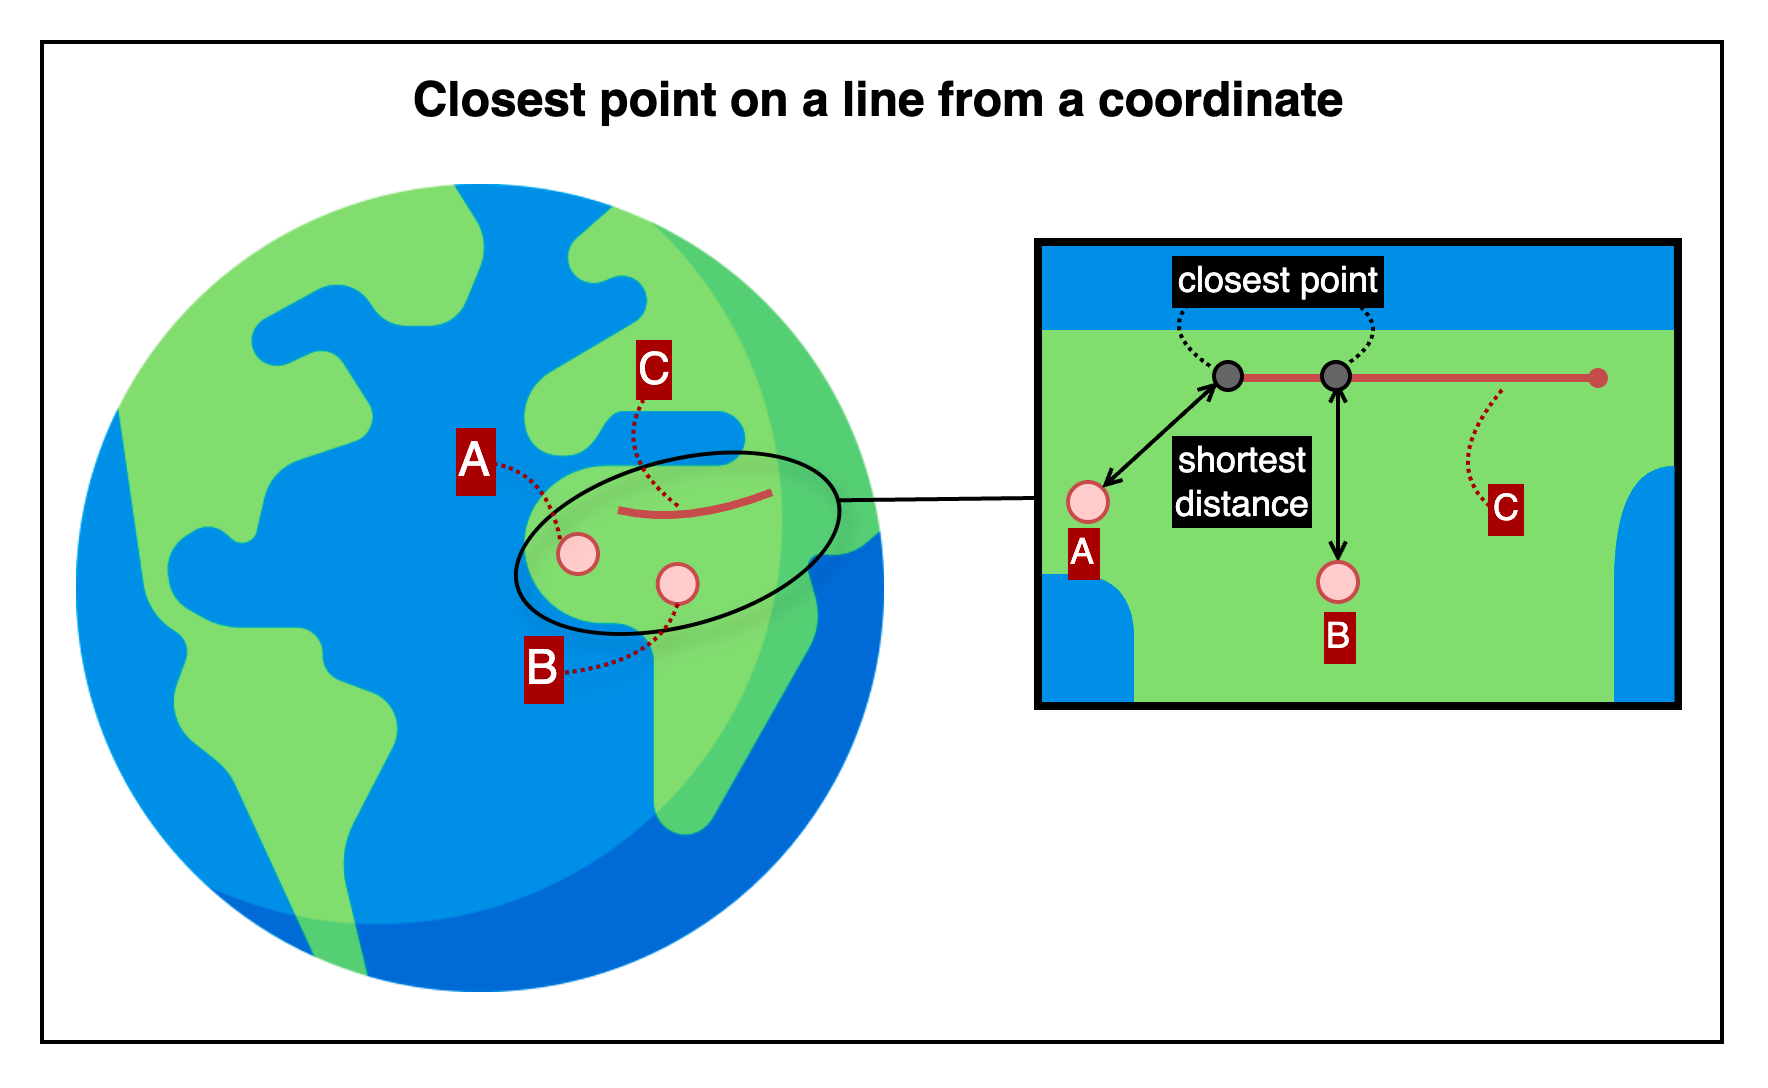
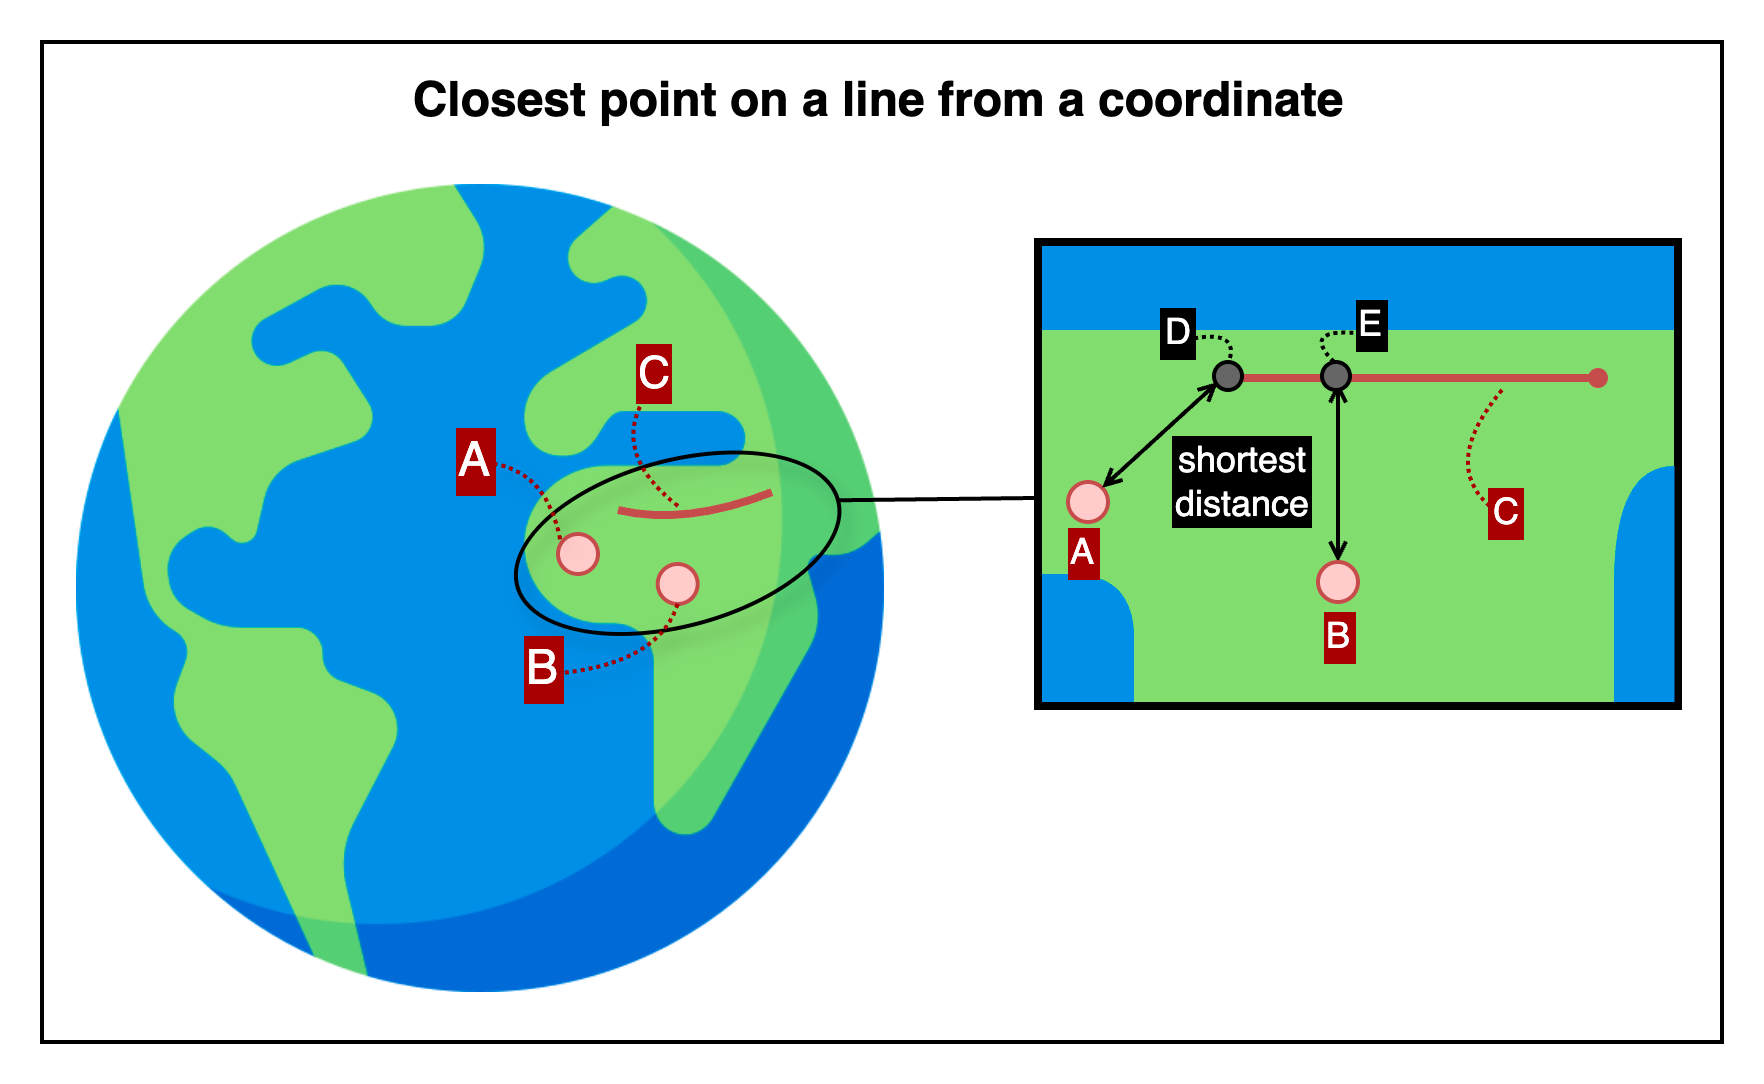
[docs] geo-calculation-toolkit-api 최신화

diff --git a/profile/projects/geo-calculation-toolkit-api/detail/closest-point-on-a-line-from-a-coordinate.md b/profile/projects/geo-calculation-toolkit-api/detail/closest-point-on-a-line-from-a-coordinate.md
@@ -1,0 +1,186 @@
+## Total boundary length of the circular area
+
+This is an HTTP API that returns the closest point on a line segment defined by two geographic coordinates, given a specific input coordinate.
+
+---
+
+## 📚 Table of Contents
+
+1. [🧭 Overview](#-1-overview) — *For first-time users*
+2. [📤 Request Details](#-2-request-details) — *For developers integrating the API*
+    1. [Request Example](#21-request-example)
+    2. [Request Specifications](#22-request-specifications)
+3. [📥 Response Details](#-3-response-details)
+    1. [Response Example](#31-response-example)
+    2. [Response Specifications](#32-response-specifications)
+4. [💥 Error Response Details](#-4-error-response-details)
+    1. [Error Response Example](#41-error-response-example)
+    2. [Error Response Specifications](#42-error-response-specifications)
+    3. [Error Codes](#43-error-codes)
+5. [🔗 Reference Links](#-5-reference-links) — *For testing the API and retrieving your API key*
+
+---
+
+## 🧭 1. Overview
+
+![closest-point-on-a-line-from-a-coordinate](./img/closest-point-on-a-line-from-a-coordinate.png)
+
+This image shows how the API determines the closest point on a line segment defined by two geographic coordinates.
+The segment labeled C represents the reference line.
+Points A and B are input coordinates, and the API computes the nearest point located on line C for each of them.
+These projected points are marked as D and E respectively, and the lines from A to D and from B to E indicate the shortest surface distances.
+
+The API returns the geographic coordinate of the closest point on the line for the input position.
+
+---
+
+## 📤 2. Request Details
+
+### 2.1. Request Example
+
+```http request
+POST {{base-url}}/coordinate/closest-on-line?unit=m
+Content-Type: application/json
+
+{
+  "coordinate": {
+    "lat": 37.618492,
+    "lng": 126.920078
+  },
+  "line": {
+    "fromCoordinate": {
+      "lat": 37.618515,
+      "lng": 126.920021
+    },
+    "toCoordinate": {
+      "lat": 37.618385,
+      "lng": 126.920339
+    }
+  }
+}
+```
+
+### 2.2. Request Specifications
+
+**2.2.1. Base Endpoint Info**
+
+| API Provider Platform | Method | Base URL(HTTP Protocol + Host)   | Path                          |
+|:---------------------:|:------:|----------------------------------|:------------------------------|
+|       Rapid API       |  POST  | `https://yourapi.p.rapidapi.com` | `/coordinate/closest-on-line` |
+
+**2.2.2. Request Headers**
+
+| Header Name       | Type   | Required | Description                         |
+|-------------------|--------|----------|-------------------------------------|
+| `Content-Type`    | string | ✅ Yes    | Must be `application/json`          |
+| `X-RapidAPI-Key`  | string | ✅ Yes    | Your API key issued by RapidAPI     |
+| `X-RapidAPI-Host` | string | ✅ Yes    | The API host identifier on RapidAPI |
+
+**2.2.3. Query Parameters**
+
+| Parameter | Type   | Required   | Description                                                |
+|-----------|--------|------------|------------------------------------------------------------|
+| `unit`    | string | ❌ Optional | Distance unit (`mm`, `m`, `km`, `ft`, `mi`) - defaults `m` |
+
+**2.2.4. Request Body**
+
+| Field              | Type   | Required | Description                                                  |
+|--------------------|--------|----------|--------------------------------------------------------------|
+| `coordinate`       | object | ✅ Yes    | The reference point for which the nearest location is sought |
+| └ `lat`            | number | ✅ Yes    | Latitude of the input point                                  |
+| └ `lng`            | number | ✅ Yes    | Longitude of the input point                                 |
+| `line`             | object | ✅ Yes    | The line segment defined by two coordinates                  |
+| └ `fromCoordinate` | object | ✅ Yes    | Starting point of the line                                   |
+| └─ `lat`           | number | ✅ Yes    | Latitude of the starting point                               |
+| └─ `lng`           | number | ✅ Yes    | Longitude of the starting point                              |
+| └ `toCoordinate`   | object | ✅ Yes    | Ending point of the line                                     |
+| └─ `lat`           | number | ✅ Yes    | Latitude of the ending point                                 |
+| └─ `lng`           | number | ✅ Yes    | Longitude of the ending point                                |
+
+---
+
+## 📥 3. Response Details
+
+### 3.1. Response Example
+
+```json
+{
+  "success": true,
+  "data": {
+    "coordinate": {
+      "lat": 37.618385,
+      "lng": 126.920339
+    },
+    "distance": 31.4989,
+    "unit": "m"
+  }
+}
+```
+
+### 3.2. Response Specifications
+
+| Field          | Type    | Nullable | Description                                                             |
+|----------------|---------|----------|-------------------------------------------------------------------------|
+| `success`      | boolean | ❌ No     | Indicates whether the operation succeeded                               |
+| `data`         | object  | ❌ No     | Included only when `success` is `true`                                  |
+| └ `coordinate` | object  | ❌ No     | The closest point on the line segment from the input coordinate         |
+| └─ `lat`       | number  | ❌ No     | Latitude of the closest point on the line                               |
+| └─ `lng`       | number  | ❌ No     | Longitude of the closest point on the line                              |
+| └ `distance`   | number  | ❌ No     | Distance between the input coordinate and the closest point on the line |
+| └ `unit`       | string  | ❌ No     | Unit of measurement (e.g. `m`, `km`, `mi`)                              |
+
+---
+
+## 💥 4. Error Response Details
+
+### 4.1. Error Response Example
+
+```http request
+400 Bad Request
+Content-Type: application/json
+
+{
+  "success": false,
+  "code": "REQUIRED_PARAMETER_MISSING",
+  "message": "Required parameter is missing.",
+  "detailMessage": "Required parameter is missing. (fromCoordinate)"
+}
+```
+
+### 4.2. Error Response Specifications
+
+**4.2.1. Error Response Headers**
+
+| Header Name    | Example Value      | Description                    |
+|----------------|--------------------|--------------------------------|
+| `Content-Type` | `application/json` | MIME type of the response body |
+
+**4.2.2. Error Response Body**
+
+| Field           | Type    | Nullable | Description                                                                      |
+|-----------------|---------|----------|----------------------------------------------------------------------------------|
+| `success`       | boolean | ❌ No     | Indicates whether the operation was successful. Always `false` here.             |
+| `code`          | string  | ❌ No     | Application-defined error code representing the type of failure.                 |
+| `message`       | string  | ❌ No     | General explanation of the error.                                                |
+| `detailMessage` | string  | ❌ No     | Additional information providing context about the error for debugging purposes. |
+
+### 4.3. Error Codes
+
+To view the full list of error codes, please visit the link below.
+
+- [Error Codes](./common/error-codes.md)
+
+---
+
+## 🔗 5. Reference Links
+
+- [🚀 Try the API on RapidAPI Console](https://rapidapi.com/your-api/test)  
+  Run live requests, view sample code, pricing, and manage your API key—all in one place.
+
+
+- [💬 Contact Support](mailto:support@yourapi.com)  
+  If you have any questions or need help with the API, feel free to email us. We’ll get back to you as soon as possible.
+
+---
+
+[Go to API List](../index.md)

diff --git a/profile/projects/geo-calculation-toolkit-api/index.md b/profile/projects/geo-calculation-toolkit-api/index.md
@@ -21,12 +21,13 @@ These APIs can be applied to a wide range of business and technical scenarios in
 - [Total boundary length of the polygonal area](./detail/total-boundary-length-of-the-polygonal-area.md)
 - [Total boundary length of the circular area](./detail/total-boundary-length-of-the-circular-area.md)
 
-**🟩 Area Calculation** (하)
+[//]: # (**🟩 Area Calculation** &#40;하&#41;)
 
-- [Area of a polygonal region](./detail/area-of-a-polygonal-region.md)
-- [Area of a circular region](./detail/area-of-a-circular-region.md)
+[//]: # (- [Area of a polygonal region]&#40;./detail/area-of-a-polygonal-region.md&#41;)
 
-**📍 Coordinates Calculation** (필수)
+[//]: # (- [Area of a circular region]&#40;./detail/area-of-a-circular-region.md&#41;)
+
+**📍 Coordinates Calculation**
 
 - [Closest point on a line from a coordinate](./detail/closest-point-on-a-line-from-a-coordinate.md)
 - [Perpendicular foot of a coordinate on a line](./detail/perpendicular-foot-of-a-coordinate-on-a-line.md)
@@ -43,12 +44,12 @@ These APIs can be applied to a wide range of business and technical scenarios in
 - 다중선과 원형 영역의 경계선과의 교차 좌표
 )
 
-**📦 Containment Check** (필수)
+**📦 Containment Check**
 
 - [Coordinate containment in a polygonal area](./detail/coordinate-containment-in-a-polygonal-area.md)
 - [Coordinate containment in a circular area](./detail/coordinate-containment-in-a-circular-area.md)
 
-**💥 Intersection Check** (필수)
+**💥 Intersection Check**
 
 - [Intersection between two circular areas](./detail/intersection-between-two-circular-areas.md)
 - [Intersection between two polygonal areas](./detail/intersection-between-two-polygonal-areas.md)
@@ -56,6 +57,6 @@ These APIs can be applied to a wide range of business and technical scenarios in
 - [Intersection between a polyline and a polygonal area](./detail/intersection-between-a-polyline-and-a-polygonal-area.md)
 - [Intersection between a polyline and a circular area](./detail/intersection-between-a-polyline-and-a-circular-area.md)
 
-**🧭 Bearing Calculation** (하)
+[//]: # (**🧭 Bearing Calculation** &#40;하&#41;)
 
-- [Bearing between coordinates](./detail/bearing-between-coordinates.md)
+[//]: # (- [Bearing between coordinates]&#40;./detail/bearing-between-coordinates.md&#41;)
